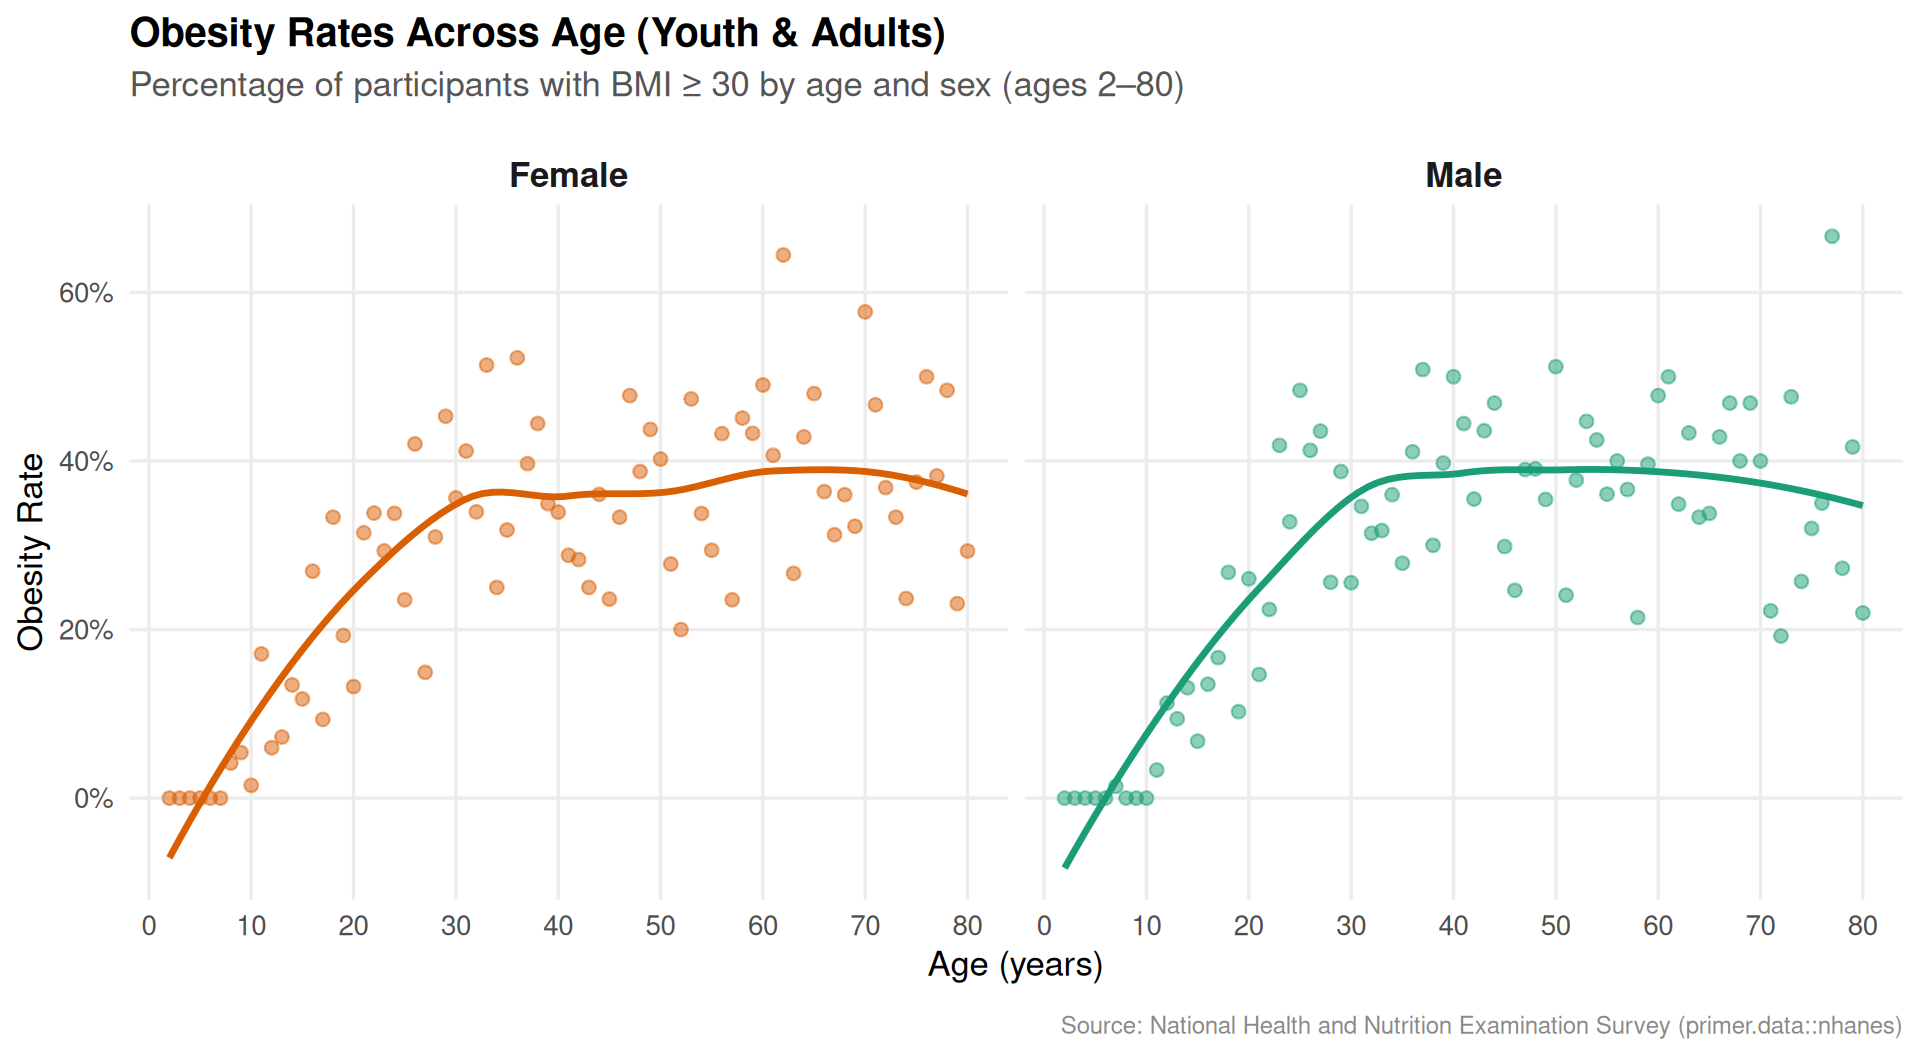
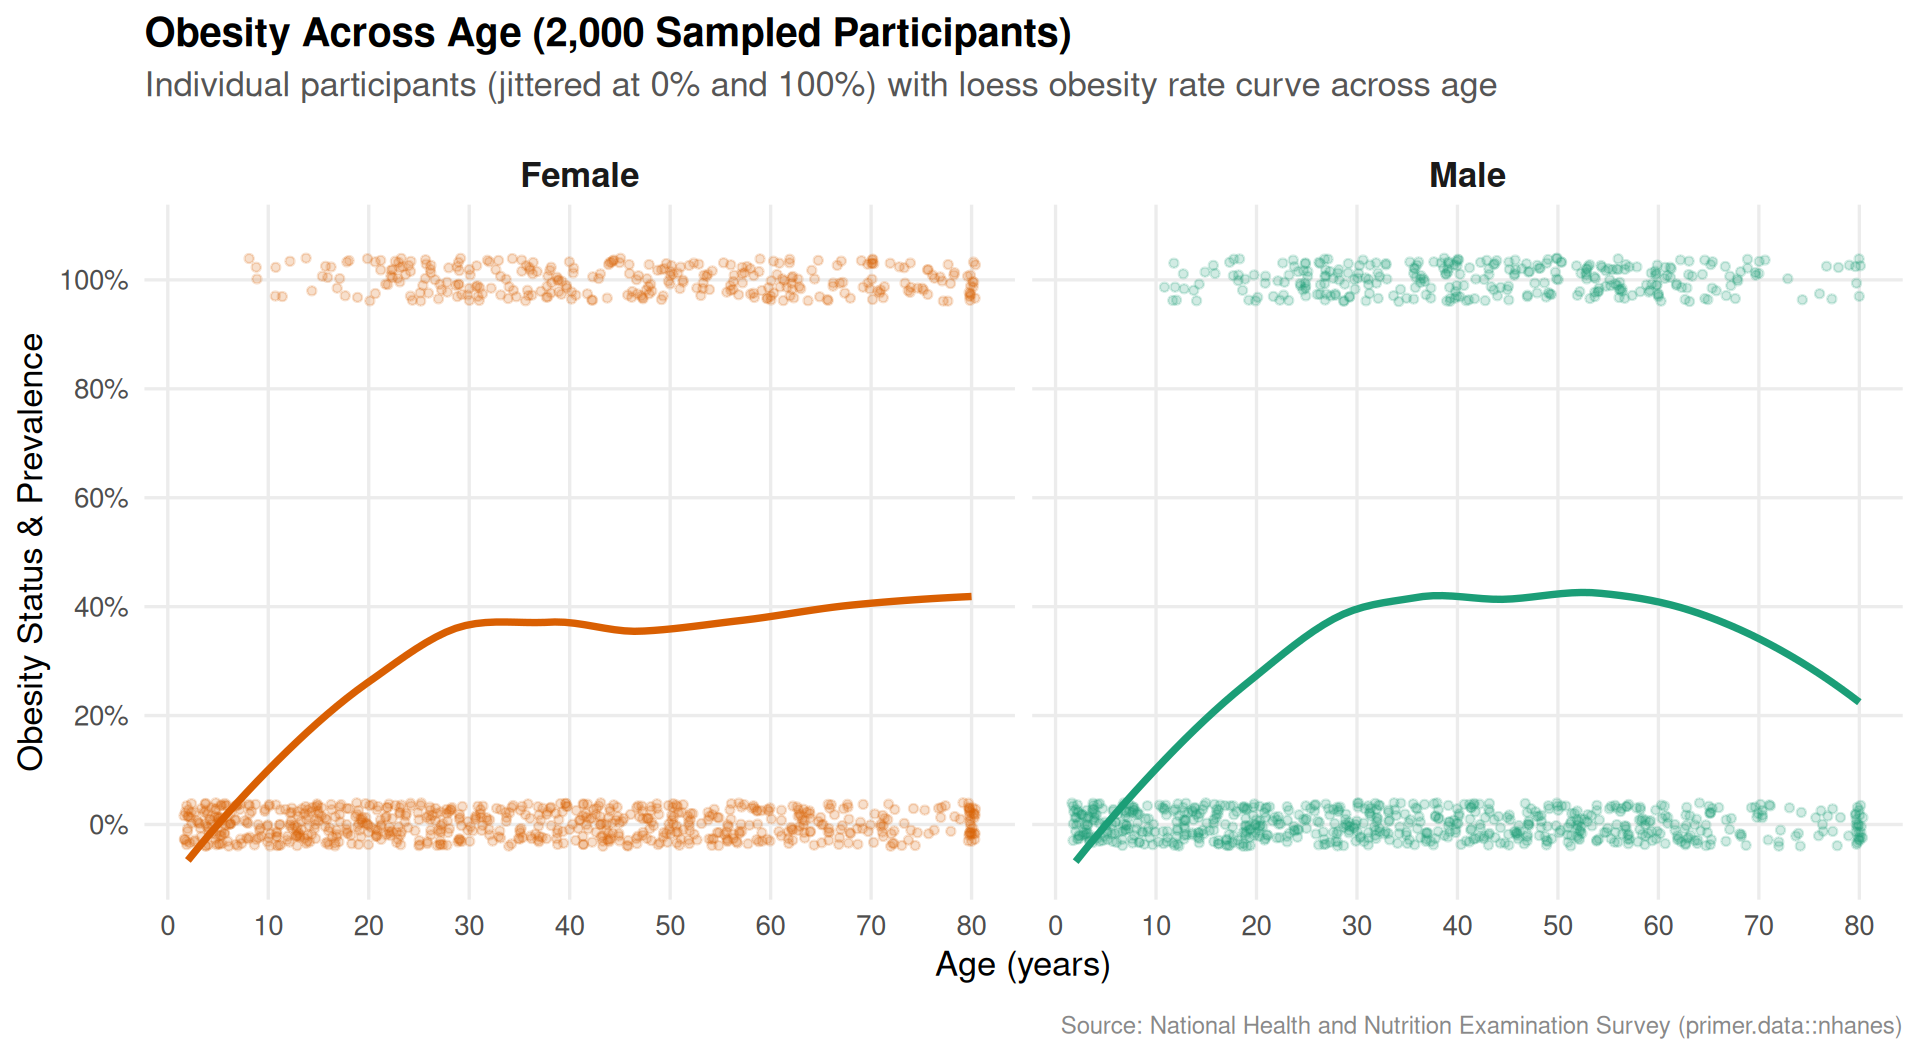
Built site for gh-pages

diff --git a/index.html b/index.html
@@ -202,6 +202,23 @@ ul.task-list li input[type="checkbox"] {
 <li><strong>Trend Over Time (1999–2023):</strong> As the national adult obesity rate increased from 30.5% in 1999–2000 to over 42% in recent survey cycles, the proportion of red dots visibly rises across the timeline.</li>
 </ul>
 </section>
+<section id="heart-disease-rates-over-time" class="level2">
+<h2 class="anchored" data-anchor-id="heart-disease-rates-over-time">Heart Disease Rates Over Time</h2>
+<p>Heart disease remains the leading cause of death in the United States. This graph tracks the prevalence of diagnosed heart disease among US adults from 1999 to 2023.</p>
+<div class="cell" data-layout-align="center">
+<div class="cell-output-display">
+<div class="quarto-figure quarto-figure-center">
+<figure class="figure">
+<p><img src="index_files/figure-html/heart-disease-plot-1.png" class="img-fluid quarto-figure quarto-figure-center figure-img" width="864"></p>
+</figure>
+</div>
+</div>
+</div>
+<ul>
+<li><strong>Prevalence Stability:</strong> Approximately 11% of US adults live with diagnosed heart disease, holding relatively steady between 10.6% and 11.9% from 1999 through 2023.</li>
+<li><strong>Cardiovascular Health Impact:</strong> While medical innovations and medications have improved management, heart disease remains the #1 cause of death in the US, strongly influenced by long-term metabolic health and obesity.</li>
+</ul>
+</section>
 <section id="food-consumption-trends-ultra-processed-vs.-minimally-processed-foods" class="level2">
 <h2 class="anchored" data-anchor-id="food-consumption-trends-ultra-processed-vs.-minimally-processed-foods">Food Consumption Trends: Ultra-Processed vs.&nbsp;Minimally Processed Foods</h2>
 <p>This graph tracks the proportion of daily calories coming from ultra-processed foods (shown in red) compared to whole and minimally processed foods (shown in green) among US adults over time.</p>
